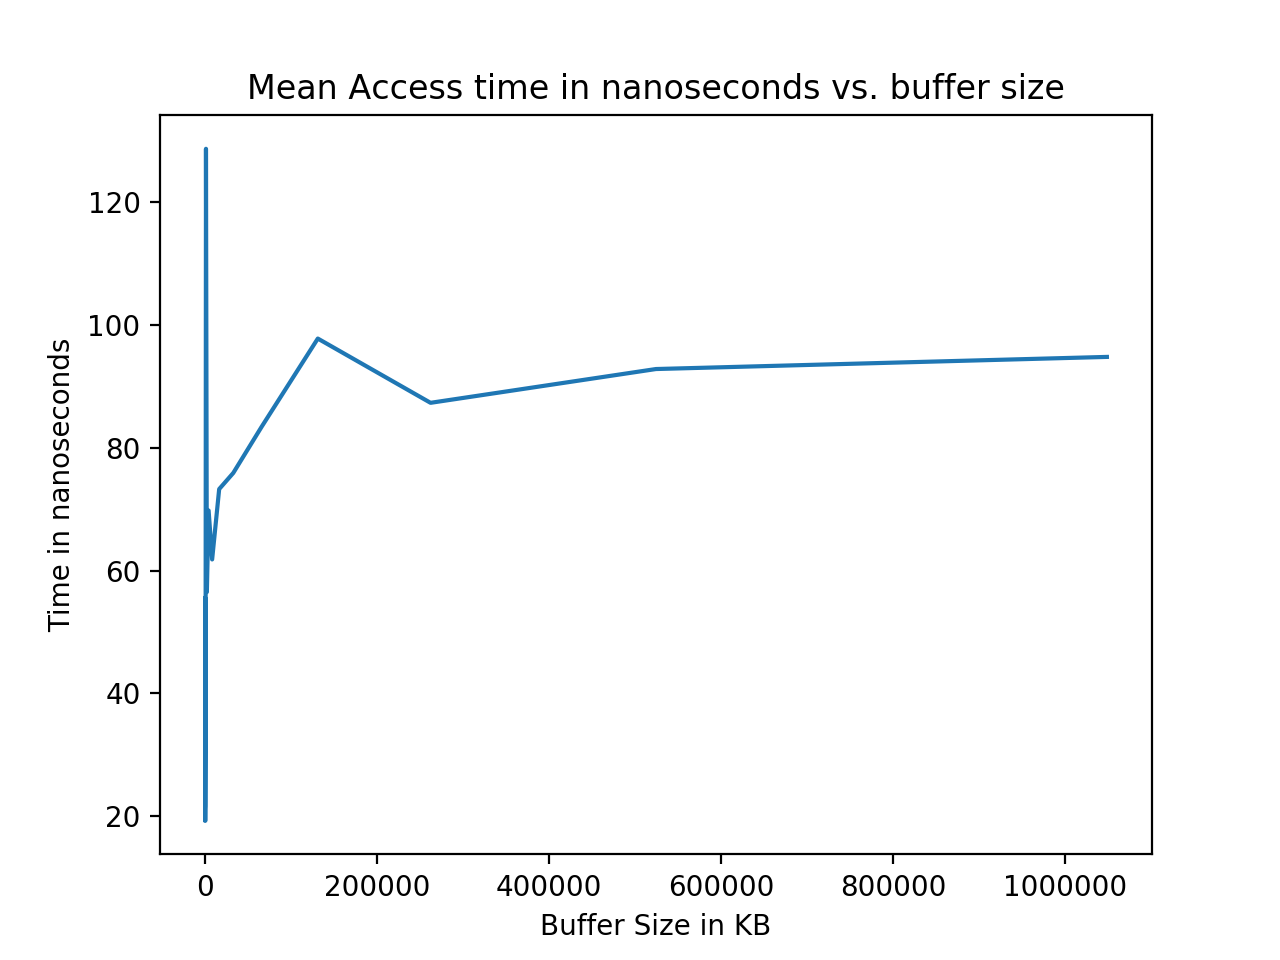
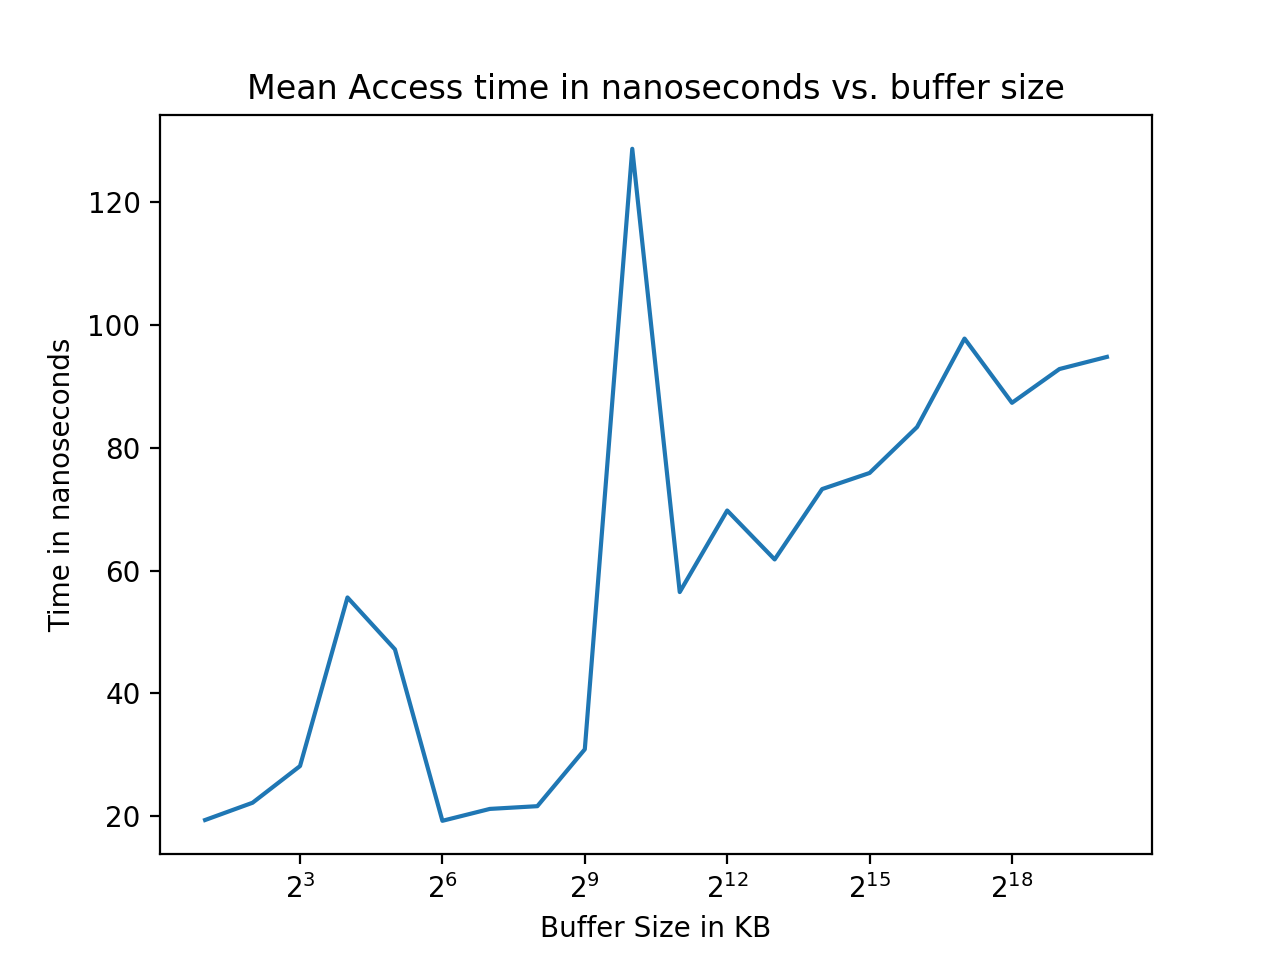
updated the plots again... to log scale

diff --git a/systemshw1/plot_buffer.py b/systemshw1/plot_buffer.py
@@ -49,16 +49,16 @@ meds = take_median(coords_1, coords_2, coords_3, coords_4, coords_5, coords_6, c
 import matplotlib.pyplot as plt
 
 
-plt.title("Median Access time in nanoseconds vs. buffer size")
+plt.title("Minimum Access time in nanoseconds vs. buffer size")
 
 x_axis = []
 for i in range(10,30):
     x_axis.append(2**(i+1)/1024)
 
-plt.plot(x_axis, meds)
+plt.plot(x_axis, mins)
 
 #plt.xticks(x_axis)
-
+plt.xscale("log", basex=2)
 plt.xlabel("Buffer Size in KB")
 plt.ylabel("Time in nanoseconds")
 plt.show()
